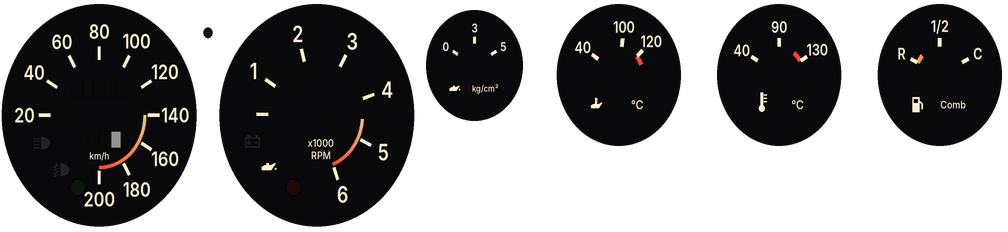
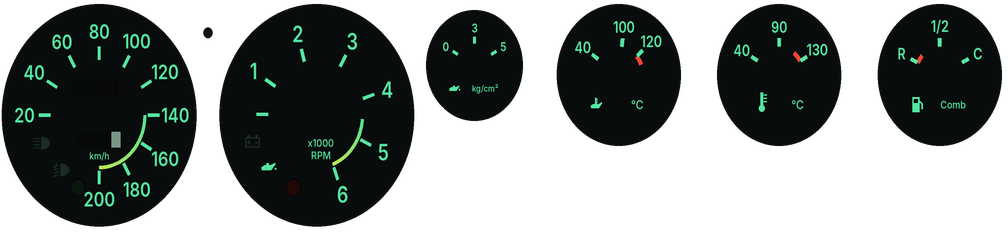
v0.50.9: quadro da Onça GTE aceso em verde-menta com ponteiros vermelhos, como a foto do carro real
Claude-Session: https://claude.ai/code/session_01MLD9VR7gkmY4w6a9beZcp6

diff --git a/src/cockpit.ts b/src/cockpit.ts
@@ -880,8 +880,9 @@ COCKPIT_ART['br-pumagtb'] = {
 // do óleo 0-3-5 kg/cm², temperatura do óleo 40-100-120, temperatura do motor (a ar) e combustível R-1/2-C.
 // Ponteiros brancos em barra que passam por cima do eixo (disco escuro embaixo), como na foto. Luzes apagadas
 // no fundo; o jogo acende: farol alto e neblina e a seta no velocímetro, bateria e óleo no conta-giros e a
-// lanterna (lente verde entre os dois). À noite o fundo continua preto e acendem números, marcações, ícones
-// e filetes em branco morno (br-pumagte-cluster-lit por cima do apagado, na medida do escuro da cabine).
+// lanterna (lente verde entre os dois). À noite, como na foto do quadro real aceso, o fundo continua preto e
+// acendem números, marcações e ícones em verde-menta claro, com um halo verde suave (br-pumagte-cluster-lit
+// por cima do apagado, na medida do escuro da cabine), e os ponteiros acendem vermelhos.
 const PG = { x: VG_X(76), y: VG_Y(38), w: (252 * 464) / 460, h: (58 * 128) / 124 }; // placa dos mostradores (onca_gte_gauges.py: 76, 38, 252 x 58)
 const PG_FACE = cp('br-pumagte-cluster'), PG_LIT = cp('br-pumagte-cluster-lit'), PG_LAMPS = cp('br-pumagte-lamps');
 // luzes-espia (centro e lado da casa, pixels do painel; onca_gte_gauges.py imprime)
@@ -908,6 +909,9 @@ function pumaCluster(c: CanvasRenderingContext2D, ox: number, r: Race) {
   const art = COCKPIT_ART['br-pumagte'];
   const X = (x: number) => ox + VG_X(x), Y = (y: number) => ART_TOP + VG_Y(y); // medidas do painel -> tela
   const k = r.def ? Math.min(1, cabinDark(r) / 0.6) : 0;
+  // ponteiros: brancos de dia, vermelhos acesos à noite (foto do quadro real aceso)
+  art.needle = k > 0.5 ? '#ff4636' : '#eeeae0';
+  art.hub = k > 0.5 ? '#1c1414' : '#2c2c30';
   const sm = c.imageSmoothingEnabled;
   c.imageSmoothingEnabled = true;
   if (k > 0.02) {
@@ -949,7 +953,7 @@ function pumaCluster(c: CanvasRenderingContext2D, ox: number, r: Race) {
   const [sx, sy, sr] = PG_SPEED;
   const drums = (v: number, n: number, cy: number, last: boolean) => {
     const s = String(Math.floor(v) % 10 ** n).padStart(n, '0');
-    for (let i = 0; i < n; i++) pix(c, s[i], X(sx + (i - (n - 1) / 2) * 0.115 * sr), Y(sy + cy * sr * PIX_Y), last && i === n - 1 ? '#18181a' : k > 0.3 ? '#efe2c4' : '#e2e0d8', 0.45);
+    for (let i = 0; i < n; i++) pix(c, s[i], X(sx + (i - (n - 1) / 2) * 0.115 * sr), Y(sy + cy * sr * PIX_Y), last && i === n - 1 ? '#18181a' : k > 0.3 ? '#8ef0bc' : '#e2e0d8', 0.45);
   };
   drums(16380 + km, 5, -0.24, false);
   drums((281.7 + km) * 10, 4, 0.22, true);
@@ -968,11 +972,11 @@ function pumaCluster(c: CanvasRenderingContext2D, ox: number, r: Race) {
   let red = r.car.engine ? redlines.get(r.car.id) : 5600; // foto da revista: carro sem ficha
   if (!red) redlines.set(r.car.id, red = engineSpec(r.car.engine, r.car.id).redline);
   needle(c, X(PG_TACH[0]) - 0.5, Y(PG_TACH[1]) - 0.5, PG_TACH[2] * 0.62 + 2, pgTachA((Math.min(1, r.rpm) * red * (r.car.soundMods?.rev ?? 1)) / 1000) * VG_DEG, art);
-  // clarão morno do quadro aceso
+  // halo verde suave do quadro aceso
   if (k > 0.02) {
     c.save();
     c.globalCompositeOperation = 'lighter';
-    for (const [gx, gy, gr] of [PG_SPEED, PG_TACH, PG_OILP, PG_OILT, PG_TEMP, PG_FUEL]) drawGlow(c, X(gx), Y(gy), gr * 1.4, gr * 1.4, '255,226,180', 0.035 * k, GLOW_STOPS);
+    for (const [gx, gy, gr] of [PG_SPEED, PG_TACH, PG_OILP, PG_OILT, PG_TEMP, PG_FUEL]) drawGlow(c, X(gx), Y(gy), gr * 1.25, gr * 1.25, '80,230,150', 0.05 * k, GLOW_STOPS);
     c.restore();
   }
 }
@@ -988,7 +992,7 @@ COCKPIT_ART['br-pumagte'] = {
   speedMax: 200, speedRest: 18, tachReal: true,
   needle: '#eeeae0', needleW: 1.15, needleTail: 3.4, needleFine: true, needleTip: 0.7, hubUnder: true, hub: '#2c2c30', hubR: 2.4,
   faces: [{ src: PG_FACE, x: PG.x, y: PG.y, w: PG.w, h: PG.h }],
-  glow: '255,226,180', glowK: 0.35,
+  glow: '80,230,150', glowK: 0.45,
   aux: [],
   under: pumaUnder, extra: pumaCluster,
 };

diff --git a/tools/ref/onca_gte_gauges.py b/tools/ref/onca_gte_gauges.py
@@ -17,8 +17,9 @@ quatro pequenos à direita, cada um no aro cromado da arte, que fica):
 - a lente verde entre os dois grandes (a da arte, lanterna acesa) também fica apagada aqui
 Sem marca nenhuma no mostrador (nada de VDO, nem o felino da Puma).
 O jogo desenha os ponteiros brancos em barra (o eixo com o disco escuro embaixo), os algarismos dos
-tambores e acende as luzes (pumaCluster em cockpit.ts). À noite o fundo continua preto e acendem
-números, marcações, ícones e filetes em branco morno (lâmpadas por trás, como nos VDO da época).
+tambores e acende as luzes (pumaCluster em cockpit.ts). À noite (foto do quadro real aceso) o fundo
+continua preto e acendem números, marcações e ícones em verde-menta claro, o filete do fim da escala do
+verde ao amarelo-esverdeado; os ponteiros acendem vermelhos (cockpit.ts).
 Saídas (4 px por pixel do jogo; placa X0..X1 x Y0..Y1 em pixels do painel, linhas 8:7):
   br-pumagte-cluster.png      de dia
   br-pumagte-cluster-lit.png  aceso (noite e túnel)
@@ -66,8 +67,10 @@ NUM_R, TICK_R0, TICK_R1 = 0.74, 0.50, 0.62     # grandes: centro dos números e 
 SNUM_R, STICK_R0, STICK_R1 = 0.66, 0.40, 0.52  # pequenos
 DAY = dict(face=(12, 12, 14), ink=(234, 230, 220), dim=(150, 148, 142), tan=(196, 168, 118), red=(204, 44, 34), orange=(222, 118, 40),
            lens_red=(70, 16, 14), lens_green=(18, 46, 26), icon_off=(70, 70, 72), drum=(16, 16, 18), white=(214, 212, 204))
-LIT = dict(face=(9, 9, 11), ink=(255, 240, 206), dim=(214, 200, 170), tan=(236, 196, 128), red=(255, 70, 46), orange=(255, 150, 60),
-           lens_red=(32, 8, 7), lens_green=(9, 22, 13), icon_off=(34, 34, 36), drum=(9, 9, 10), white=(150, 146, 136))
+# aceso (foto do quadro real à noite): números, marcações e ícones verde-menta claros sobre o preto, o filete do
+# fim da escala do verde ao amarelo-esverdeado, a reserva do combustível em vermelho
+LIT = dict(face=(8, 12, 12), ink=(84, 230, 162), dim=(60, 186, 136), tan=(80, 226, 146), red=(190, 232, 84), orange=(240, 70, 50), warn=(240, 70, 50),
+           lens_red=(32, 8, 7), lens_green=(9, 22, 13), icon_off=(26, 44, 36), drum=(8, 10, 10), white=(120, 150, 134))
 # luzes-espia: centro relativo ao mostrador (em R), meio-lado da casa (em R), cor acesa
 LAMPS = [('beam', SPEED, -0.62, 0.25, 0.11, (80, 150, 255)), ('fog', SPEED, -0.42, 0.49, 0.11, (70, 230, 90)),
          ('turn', SPEED, -0.22, 0.65, 0.09, (70, 240, 90)), ('batt', TACH, -0.66, 0.24, 0.11, (255, 56, 40)),
@@ -236,7 +239,7 @@ def small(im, d, pal, g, fa, marks, labels, unit=None, icon=None, red=None, oran
     R = g['R']
     face(d, g, pal)
     if red:
-        arc_band(d, g, fa(red[0]), fa(red[1]), R * 0.36, R * 0.42, pal['red'])
+        arc_band(d, g, fa(red[0]), fa(red[1]), R * 0.36, R * 0.42, pal.get('warn', pal['red']))  # marca de alerta: vermelha também acesa
     if orange:
         arc_band(d, g, fa(orange[0]), fa(orange[1]), R * 0.36, R * 0.42, pal['orange'])
     for v in marks:
